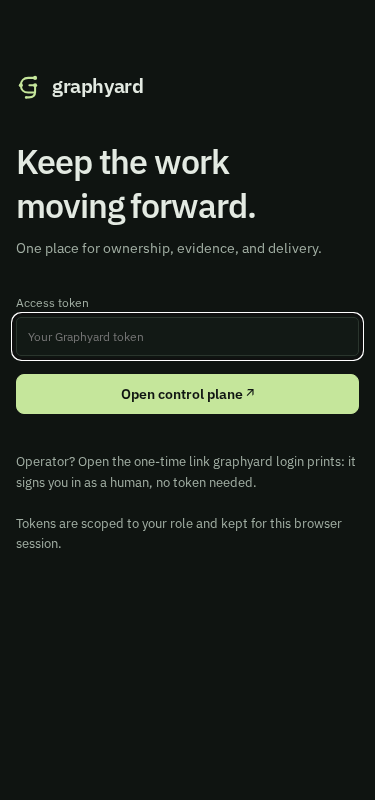
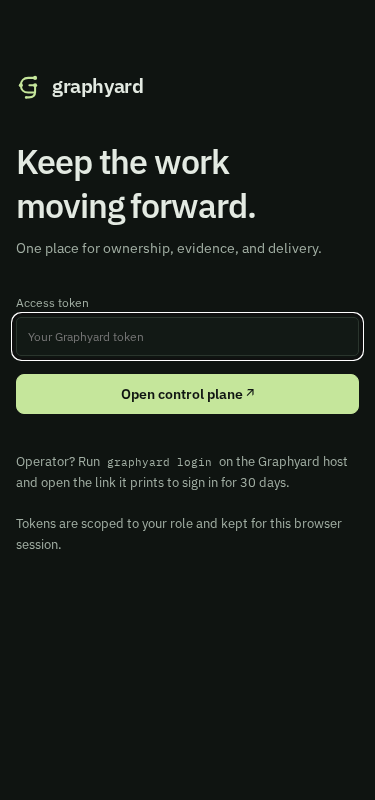
GY-2171: graphyard login needs no options, and a dashboard sign-in lasts 30 days
graphyard login with no GRAPHYARD_TOKEN_FILE or GRAPHYARD_TOKEN uses the operator
credential the install recorded under ~/.config/graphyard/<install>/ and links to the
tailnet URL up served the dashboard on. A human session lasts 30 days on the server and
is kept in localStorage; the sign-in screen names graphyard login.

Browser suite: the two docs-diagram tests in dashboard.spec.ts fail on the base too
(their expected text exists nowhere in the repository).

Changed region(s): [[0.0587, 0.5625, 0.8507, 0.625], [0.0293, 0.6562, 0.1467, 0.6875], [0.88, 0.5625, 0.9387, 0.5938]]

diff --git a/src/cli/session-commands.ts b/src/cli/session-commands.ts
@@ -1,10 +1,13 @@
 import { constants as cryptoConstants, createDecipheriv, createPublicKey, generateKeyPairSync, privateDecrypt, randomUUID } from 'node:crypto';
+import { execFileSync } from 'node:child_process';
 import { chmod, link, mkdir, readFile, rename, rm, stat, writeFile } from 'node:fs/promises';
 import { dirname, join } from 'node:path';
 import { setTimeout as delay } from 'node:timers/promises';
 import type { Work } from '../model.js';
 import { hostDoableAsk, hostDoableRefusal, parkRefusal, type HostDoableAsk, type HumanRequestRow } from '../model/human-request.js';
-import { configHome } from '../install/secrets.js';
+import { configHome, installDirectory, readInstallRecord, readToken } from '../install/secrets.js';
+import { installIdFor } from '../install/types.js';
+import { repositoryFromRemote } from '../onboarding.js';
 import { scopeBlockedBudgetMs, scopeRequestOutcome } from '../model/scope.js';
 import type { CliContext } from './context.js';
 import { workMutation, type CliCommand } from './registry.js';
@@ -230,16 +233,37 @@ export const answerHumanCommand: CliCommand = {
   },
 };
 /**
+ * GY-2171: the operator's admin credential this machine's install of ROOT's repository recorded
+ * (the human admin of ~/.config/graphyard/<install>/install.json, its token beside it), and the
+ * tailnet address `graphyard up` served the dashboard on, if any. Null when no such credential is here.
+ */
+export async function recordedOperator(root: string): Promise<{ token: string; reachableUrl: string | null } | null> {
+  let repository: string | null;
+  try { repository = repositoryFromRemote(execFileSync('git', ['remote', 'get-url', 'origin'], { cwd: root, encoding: 'utf8', stdio: ['ignore', 'pipe', 'ignore'] })); } catch { return null; }
+  if (!repository) return null;
+  const directory = installDirectory(installIdFor(repository));
+  const admins = (await readInstallRecord(directory).catch(() => null))?.principals.filter(principal => principal.role === 'admin') ?? [];
+  const admin = admins.find(principal => principal.sessionKind === 'human') ?? admins[0];
+  const token = admin ? await readToken(directory, admin.id).catch(() => null) : null;
+  if (!token) return null;
+  const up = await readFile(join(root, '.graphyard/up.json'), 'utf8').then(JSON.parse, () => null);
+  return { token, reachableUrl: typeof up?.tailnetUrl === 'string' && up.tailnetUrl ? up.tailnetUrl : null };
+}
+/**
  * The human operator's way into the dashboard (GY-738): a one-time link that opens a human
- * session in the browser, so no token is ever pasted into the page. Run with the operator's own
- * admin credential; the link is single use and expires in ten minutes.
+ * session in the browser, so no token is ever pasted into the page. With no credential named, it
+ * uses the one the install recorded on this machine and links to the tailnet address when the
+ * dashboard is served there (GY-2171); the link is single use and expires in ten minutes.
  */
 export const loginCommand: CliCommand = {
   name: 'login',
-  help: ['  login                        Print a one-time link that signs the operator into the', '                                dashboard as a human (single use, expires in 10 minutes)'],
-  async run({ api, base, print }) {
+  help: ['  login                        Print a one-time link that signs the operator into the', '                                dashboard as a human for 30 days (the link is single use, 10 minutes)'],
+  async run({ api, base, print, repositoryRoot }) {
+    const recorded = process.env.GRAPHYARD_TOKEN_FILE || process.env.GRAPHYARD_TOKEN ? null : await recordedOperator(repositoryRoot());
+    // The request helper reads its credential on first use: the recorded one stands in for GRAPHYARD_TOKEN.
+    if (recorded) process.env.GRAPHYARD_TOKEN = recorded.token;
     const link = await api('sign-in-links', {}) as { code: string; principal: string; expiresAt: string };
-    return print({ signIn: `${base.replace(/\/+$/, '')}/#sign-in=${link.code}`, principal: link.principal, expiresAt: link.expiresAt, singleUse: true });
+    return print({ signIn: `${(recorded?.reachableUrl ?? base).replace(/\/+$/, '')}/#sign-in=${link.code}`, principal: link.principal, expiresAt: link.expiresAt, singleUse: true });
   },
 };
 /** A wait as a person reads it: minutes under an hour, then hours, then days. */

diff --git a/tests/login-no-options.test.ts b/tests/login-no-options.test.ts
@@ -1,0 +1,62 @@
+import { test } from 'node:test';
+import assert from 'node:assert/strict';
+import { execFileSync } from 'node:child_process';
+import { mkdir, writeFile } from 'node:fs/promises';
+import { createServer } from 'node:http';
+import { join } from 'node:path';
+import { createContext } from '../src/cli/context.js';
+import { loginCommand } from '../src/cli/session-commands.js';
+import { HumanSignIn, signInSessionTtlMs } from '../src/server/auth.js';
+import { temporaryDirectory } from './helpers/temp-dirs.js';
+
+// GY-2171: `graphyard login` with no options and no GRAPHYARD_TOKEN_FILE finds the operator credential
+// the install recorded under the config home, and the human session its link opens lasts 30 days.
+
+test('unit:login-no-options graphyard login with no options signs in with the install\'s recorded operator credential and links to the tailnet address', async () => {
+  const root = await temporaryDirectory('login-repo'), home = await temporaryDirectory('login-config');
+  execFileSync('git', ['init', '-q', root]);
+  execFileSync('git', ['-C', root, 'remote', 'add', 'origin', 'https://github.com/acme/widget.git']);
+  await mkdir(join(root, '.graphyard'));
+  await writeFile(join(root, '.graphyard/up.json'), JSON.stringify({ version: 1, repository: 'acme/widget', provider: 'local', completed: [], noHerdr: true, goal: null, tailnetUrl: 'http://host.tailnet.ts.net:4310' }));
+  const install = join(home, 'acme-widget'), token = 'operator-admin-credential-0123456789abcdef';
+  await mkdir(join(install, 'tokens'), { recursive: true });
+  await writeFile(join(install, 'tokens/acme-widget-admin.token'), `${token}\n`, { mode: 0o600 });
+  await writeFile(join(install, 'install.json'), JSON.stringify({ version: 1, installId: 'acme-widget', repository: 'acme/widget', provider: 'local', baseBranch: 'main', createdAt: '2026-10-19T00:00:00Z', updatedAt: '2026-10-19T00:00:00Z',
+    principals: [{ id: 'acme-widget-worker-1', role: 'worker', fingerprint: '000000000000' }, { id: 'acme-widget-admin', role: 'admin', sessionKind: 'human', fingerprint: '111111111111' }] }));
+
+  const seen: (string | undefined)[] = [];
+  const server = createServer((request, response) => {
+    if (request.url === '/api/sign-in-links') seen.push(request.headers.authorization);
+    response.setHeader('Content-Type', 'application/json');
+    response.end(request.url === '/api/sign-in-links' ? JSON.stringify({ code: 'one-time-code-0123456789', principal: 'acme-widget-admin', expiresAt: '2026-10-19T00:10:00Z' }) : '{}');
+  });
+  await new Promise<void>(done => server.listen(0, '127.0.0.1', done));
+  const names = ['GRAPHYARD_URL', 'GRAPHYARD_CONFIG_HOME', 'GRAPHYARD_REPOSITORY_ROOT', 'GRAPHYARD_TOKEN', 'GRAPHYARD_TOKEN_FILE'] as const;
+  const saved = Object.fromEntries(names.map(name => [name, process.env[name]]));
+  try {
+    for (const name of names) delete process.env[name];
+    Object.assign(process.env, { GRAPHYARD_URL: `http://127.0.0.1:${(server.address() as { port: number }).port}`, GRAPHYARD_CONFIG_HOME: home, GRAPHYARD_REPOSITORY_ROOT: root });
+    const printed: any[] = [];
+    const context = await createContext('login', undefined, [], false);
+    await loginCommand.run({ ...context, print: value => printed.push(value) }, undefined);
+    assert.deepEqual(seen, [`Bearer ${token}`], 'the link is minted with the recorded operator credential');
+    assert.equal(printed[0].signIn, 'http://host.tailnet.ts.net:4310/#sign-in=one-time-code-0123456789');
+    assert.equal(printed[0].principal, 'acme-widget-admin');
+  } finally {
+    for (const name of names) if (saved[name] === undefined) delete process.env[name]; else process.env[name] = saved[name];
+    server.close();
+  }
+});
+
+test('unit:human-session-30-days a session opened from a sign-in link stays valid for 30 days', () => {
+  let now = Date.parse('2026-10-19T00:00:00Z');
+  const table = new HumanSignIn(() => now);
+  const { code } = table.issue({ id: 'operator', role: 'admin', sessionKind: 'human' }, true);
+  const session = table.redeem(code);
+  assert.equal(signInSessionTtlMs, 30 * 86_400_000);
+  assert.equal(session.expiresAt, '2026-11-18T00:00:00.000Z');
+  now += 29 * 86_400_000;
+  assert.equal(table.authenticate(session.token)?.id, 'operator');
+  now += 86_400_000;
+  assert.equal(table.authenticate(session.token), null);
+});

diff --git a/web/pages/login.tsx b/web/pages/login.tsx
@@ -22,8 +22,16 @@ export function offerToSavePassword(token: string, scope: { PasswordCredential?:
   return true;
 }
 export const HELPER_TEXT = 'Tokens are scoped to your role and kept for this browser session.';
-/** How the human operator signs in without a token (GY-738). */
-export const SIGN_IN_LINK_TEXT = 'Operator? Open the one-time link graphyard login prints: it signs you in as a human, no token needed.';
+/** The one command that signs the human operator in without a token (GY-738, GY-2171). */
+export const SIGN_IN_COMMAND = 'graphyard login';
+/** Where a session a sign-in link opens is kept: it lasts 30 days, so it outlives the browser session a typed token keeps to (GY-2171). */
+export const HUMAN_SESSION_KEY = 'graphyard-token';
+/** The token this browser holds: a typed one for this browser session, else a sign-in link's 30-day human session. */
+export const storedToken = () => sessionStorage.getItem(HUMAN_SESSION_KEY) ?? localStorage.getItem(HUMAN_SESSION_KEY) ?? '';
+/** The operator's line: run the command (a click copies it) on the Graphyard host and open the link it prints. */
+function SignInCommand() {
+  return <p className="login-help">Operator? Run <code className="login-command" title="Click to copy" onClick={() => void navigator.clipboard?.writeText(SIGN_IN_COMMAND).catch(() => {})}>{SIGN_IN_COMMAND}</code> on the Graphyard host and open the link it prints to sign in for 30 days.</p>;
+}
 export const LINK_REFUSED_NOTICE = 'That sign-in link has expired or was already used. Ask for a new one.';
 
 /** The one-time code a sign-in link carries in its fragment (`/#sign-in=CODE`), which never reaches a server log. */
@@ -107,7 +115,7 @@ export function LoginView({ state, error, draftToken, setDraftToken, submit, ret
       <input type="text" name="username" autoComplete="username" value={LOGIN_USERNAME} readOnly tabIndex={-1} aria-hidden="true" style={visuallyHidden}/>
       <label>Access token<input type="password" name="password" required autoFocus value={draftToken} onChange={e => setDraftToken(e.target.value)} autoComplete="current-password" placeholder="Your Graphyard token"/></label>
       <button type="submit">Open control plane ↗</button>
-      <p className="login-help">{SIGN_IN_LINK_TEXT}</p>
+      <SignInCommand/>
     </form>}
     {state.kind === 'verifying' && <div className="login-status">
       <p role="status" aria-busy="true" aria-live="polite" className="login-progress"><span className="spinner" aria-hidden="true"/>Verifying connection…</p>
@@ -134,7 +142,7 @@ export default function LoginPage({ token, error, signOut, setError, sessionEpoc
     const epoch = ++sessionEpoch.current;
     void redeemSignIn(code, (input, init) => fetch(input, init)).then(outcome => {
       if (epoch !== sessionEpoch.current) return;
-      if (outcome.kind === 'signed-in') { setError(''); sessionStorage.setItem('graphyard-token', outcome.token); setToken(outcome.token); }
+      if (outcome.kind === 'signed-in') { setError(''); localStorage.setItem(HUMAN_SESSION_KEY, outcome.token); setToken(outcome.token); }
       else setError(outcome.kind === 'refused' ? LINK_REFUSED_NOTICE : `Can't reach the control plane at ${host}`);
     });
   }, []);

diff --git a/web/style.css b/web/style.css
@@ -328,7 +328,7 @@ img.mark{width:26px;height:26px}
 /* A commit shows eight characters; the whole SHA stays in the text so a selection copies it. */
 code.sha{display:inline-block;max-width:8ch;overflow:hidden;white-space:nowrap;vertical-align:bottom;font-family:var(--font-mono)}
 /* GY-198 sign-in: one column, one left edge. Every child of .login shares its max width and left edge (the brand drops the sidebar's inset), and the helper text is its own block below the action. */
-.login{display:flex;flex-direction:column;align-items:stretch;width:100%;max-width:450px;margin:12vh auto;padding:30px var(--space-4,16px)}.login>*{margin-left:0;margin-right:0;max-width:100%}.login .brand{padding:0;align-self:flex-start}.login h1{margin:55px 0 10px;font-size:44px}.login-tagline{margin:0}.login-form{display:grid;gap:18px;margin:35px 0 0}.login-form .notice{margin:0}.login-status{display:grid;justify-items:start;gap:14px;margin:35px 0 0}.login-status .notice{margin:0;justify-self:stretch}.login-progress{display:flex;align-items:center;gap:10px;margin:0;color:var(--text)}.spinner{width:16px;height:16px;flex-shrink:0;border-radius:50%;border:2px solid var(--border);border-top-color:var(--accent);animation:gy-spin .8s linear infinite}@keyframes gy-spin{to{transform:rotate(360deg)}}.login-actions{display:flex;flex-wrap:wrap;align-items:center;gap:16px}.login .login-escape{color:var(--accent);font-size:var(--type-body);text-decoration:underline;text-underline-offset:3px}.login-help{display:block;margin:20px 0 0;font-size:var(--type-small,12px);line-height:1.6;color:var(--text-2)}
+.login{display:flex;flex-direction:column;align-items:stretch;width:100%;max-width:450px;margin:12vh auto;padding:30px var(--space-4,16px)}.login>*{margin-left:0;margin-right:0;max-width:100%}.login .brand{padding:0;align-self:flex-start}.login h1{margin:55px 0 10px;font-size:44px}.login-tagline{margin:0}.login-form{display:grid;gap:18px;margin:35px 0 0}.login-form .notice{margin:0}.login-status{display:grid;justify-items:start;gap:14px;margin:35px 0 0}.login-status .notice{margin:0;justify-self:stretch}.login-progress{display:flex;align-items:center;gap:10px;margin:0;color:var(--text)}.spinner{width:16px;height:16px;flex-shrink:0;border-radius:50%;border:2px solid var(--border);border-top-color:var(--accent);animation:gy-spin .8s linear infinite}@keyframes gy-spin{to{transform:rotate(360deg)}}.login-actions{display:flex;flex-wrap:wrap;align-items:center;gap:16px}.login .login-escape{color:var(--accent);font-size:var(--type-body);text-decoration:underline;text-underline-offset:3px}.login-help{display:block;margin:20px 0 0;font-size:var(--type-small,12px);line-height:1.6;color:var(--text-2)}.login .login-command{display:inline;padding:1px 4px;cursor:copy}
 @media(max-width:480px){.login{margin:6vh auto;padding:24px 16px}.login h1{margin-top:40px;font-size:34px}}
 /* Tests (GY-162): each result in its own tone; a skip is amber and never reads as a pass. */
 .case-filters{display:flex;flex-wrap:wrap;gap:var(--space-2);margin:var(--space-3) 0}

diff --git a/web/main.tsx b/web/main.tsx
@@ -10,7 +10,7 @@ import type { Dashboard } from './pages/dashboard';
 import { primaryEntry, viewFor, views } from './pages';
 import TopBar from './components/top-bar';
 import { useFeatures } from './features';
-import LoginPage, { REJECTED_NOTICE } from './pages/login';
+import LoginPage, { HUMAN_SESSION_KEY, REJECTED_NOTICE, storedToken } from './pages/login';
 import WorkDetails, { useOpenedWork } from './pages/work-details';
 import GoalPage, { goalPathKey } from './pages/goal';
 import CreateWork from './pages/create-work';
@@ -23,7 +23,7 @@ import { idempotencyKey } from './idempotency-key';
  * registry, and the page it selects — or the open work item's page. Pages live under web/pages/.
  */
 function App() {
-  const [token, setToken] = useState(sessionStorage.getItem('graphyard-token') ?? '');
+  const [token, setToken] = useState(storedToken);
   const sessionEpoch = useRef(0);
   const [draftToken, setDraftToken] = useState('');
   const [work, setWork] = useState<Work[]>([]);
@@ -46,7 +46,7 @@ function App() {
     const response = await fetch(`/api/${path}`, { method: data === undefined ? 'GET' : 'POST', headers: { Authorization: `Bearer ${token}`, 'Content-Type': 'application/json', 'Idempotency-Key': idempotencyKey() }, body: data === undefined ? undefined : JSON.stringify(data) });
     const body = await response.json(); if (!response.ok) throw new Error(body.error + (body.issues ? `: ${body.issues.map((i: any) => i.message).join(', ')}` : '')); return body;
   }
-  function signOut() { sessionEpoch.current++; setBusy(false); sessionStorage.removeItem('graphyard-token'); setToken(''); setDraftToken(''); setStatus(null); setBoard(null); setWork([]); setJobs([]); setView('work'); setEditingRequirements(false); setObservedAt(Number.NaN); setSelected(null); setEvents([]); setCreating(false); setConnected(false); setLastUpdated(null); setError(''); }
+  function signOut() { sessionEpoch.current++; setBusy(false); sessionStorage.removeItem(HUMAN_SESSION_KEY); localStorage.removeItem(HUMAN_SESSION_KEY); setToken(''); setDraftToken(''); setStatus(null); setBoard(null); setWork([]); setJobs([]); setView('work'); setEditingRequirements(false); setObservedAt(Number.NaN); setSelected(null); setEvents([]); setCreating(false); setConnected(false); setLastUpdated(null); setError(''); }
   /** The sign-in page's first read: once the status reply accepts the token, the work snapshot, then the dashboard. */
   async function firstLoad(system: any, signal: AbortSignal) {
     const epoch = sessionEpoch.current, headers = { Authorization: `Bearer ${token}` }, response = await fetch('/api/work-snapshot', { headers, signal });

diff --git a/browser-tests/human-decisions.spec.ts b/browser-tests/human-decisions.spec.ts
@@ -45,7 +45,8 @@ for (const viewport of [{ width: 1280, height: 800 }, { width: 375, height: 812 
     await expect(page.getByRole('button', { name: 'Every request and answer →' })).toBeVisible();
     expect(posted[0]).toEqual({ path: '/api/sign-in', body: { code: 'one-time-code-from-graphyard-login' } });
     expect(new URL(page.url()).hash).toBe('');
-    expect(await page.evaluate(() => sessionStorage.getItem('graphyard-token'))).toBe('browser-human');
+    // GY-2171: the human session lasts 30 days, so it is kept beyond this browser session.
+    expect(await page.evaluate(() => localStorage.getItem('graphyard-token'))).toBe('browser-human');
 
     await page.getByRole('button', { name: 'Every request and answer →' }).click();
     await expect(page.getByText('Signed in as')).toContainText('operator · human operator');
@@ -60,6 +61,14 @@ for (const viewport of [{ width: 1280, height: 800 }, { width: 375, height: 812 
     expect(await page.evaluate(() => document.documentElement.scrollWidth)).toBeLessThanOrEqual(viewport.width);
   });
 }
+
+test('integration:sign-in-screen-command the sign-in screen names the one command, graphyard login, that signs the operator in for 30 days', async ({ page }) => {
+  await page.route('**/api/**', route => route.fulfill({ status: 401, json: { error: 'Rejected' } }));
+  await page.goto('/');
+  const line = page.locator('.login-help', { hasText: 'Operator?' });
+  await expect(line).toHaveText('Operator? Run graphyard login on the Graphyard host and open the link it prints to sign in for 30 days.');
+  await expect(line.locator('code')).toHaveText('graphyard login');
+});
 
 test('a refused answer keeps everything the operator typed: the card clears only after the answer succeeds', async ({ page }) => {
   await page.setViewportSize({ width: 1280, height: 800 });

diff --git a/src/server/auth.ts b/src/server/auth.ts
@@ -84,13 +84,13 @@ export { confinedLaneProducer, laneProducerRouteGuard, laneProducerScope } from 
  * run with the operator's own admin credential, asks for a one-time link; opening it in a browser
  * redeems it for a short-lived session bound to that principal and declared human, so the
  * decisions only a human may make are answered in that browser with one click. A link is single
- * use and expires in minutes; the session it opens expires in hours. Only digests are held, in
+ * use and expires in minutes; the session it opens lasts 30 days (GY-2171). Only digests are held, in
  * this process: a restart signs everyone out, and nothing about either is ever written. Both
  * tables are bounded: past the cap the entry nearest expiry goes first, so repeated
  * `graphyard login` calls cannot grow them between prunes.
  */
 export const signInLinkTtlMs = 10 * 60_000;
-export const signInSessionTtlMs = 12 * 3_600_000;
+export const signInSessionTtlMs = 30 * 86_400_000;
 export const maxSignInLinks = 16;
 export const maxSignInSessions = 32;
 const digest = (value: string) => createHash('sha256').update(value).digest('hex');

diff --git a/docs/dashboard.md b/docs/dashboard.md
@@ -5,7 +5,7 @@ Sidebar: **Work**, **Workers**, **Shipped**, **Tests**, **Insights**, **Settings
 
 ## From your phone
 
-Serves `127.0.0.1:4310` or the install's free port ([install](install.md)). With Tailscale, `up` prints `tailscale serve --bg --http=4310 http://127.0.0.1:4310` plus tailnet URL; `--share-tailnet` runs it (never `funnel`), `reachableUrl` (`up.json`) feeds sign-in links. A green `up` ends with a single-use `signIn` link (10min).
+Serves `127.0.0.1:4310` or the install's free port ([install](install.md)). With Tailscale, `up` prints `tailscale serve --bg --http=4310 http://127.0.0.1:4310` plus tailnet URL; `--share-tailnet` runs it (never `funnel`), `reachableUrl` (`up.json`) feeds sign-in links. A green `up` ends with a single-use `signIn` link (10min). Later, `graphyard login` (no options; the sign-in screen shows it) mints one with the install's operator credential under `~/.config/graphyard/<install>/`, on that tailnet URL; the session lasts 30 days (until a server restart).
 
 ## Work
 
@@ -13,7 +13,7 @@ Open items: **Needs you**, **Blocked**, **Moving**, **Up next**, **Backlog**. `G
 
 ## Needs you
 
-Cards: ask, **Recommended** choice, one-line why, numbered steps, choices; agent detail under **Details for agents**. `graphyard login`: single-use sign-in link; **Provide now** seals credentials for `unseal GY-N`; operator approvals offer **Approve** or terminal **Decline** (`master refuse GY-N DECISION REASON`); human admins only.
+Cards: ask, **Recommended** choice, one-line why, numbered steps, choices; agent detail under **Details for agents**. **Provide now** seals credentials for `unseal GY-N`; operator approvals offer **Approve** or terminal **Decline** (`master refuse GY-N DECISION REASON`); human admins only.
 
 ## Workers
 
